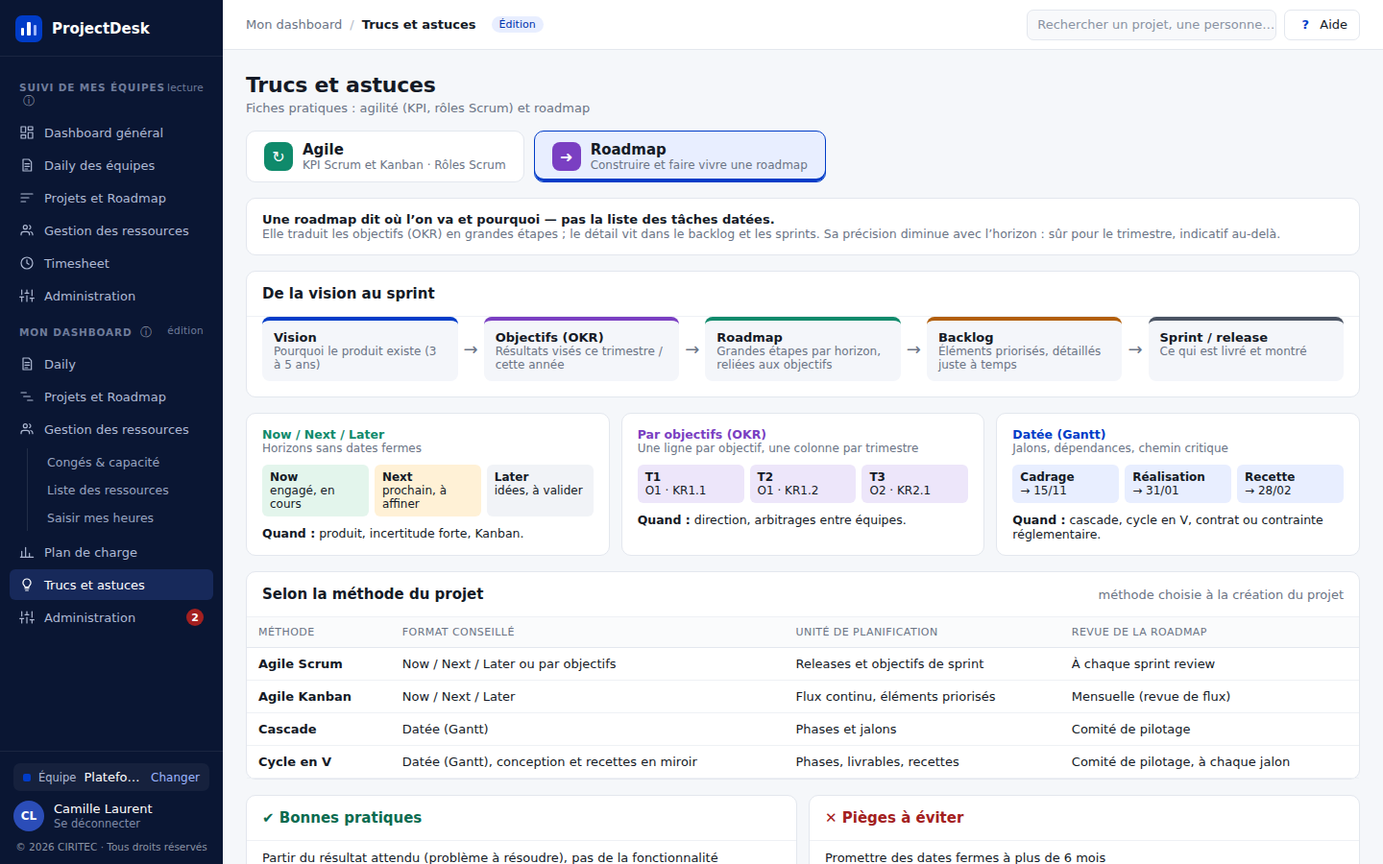
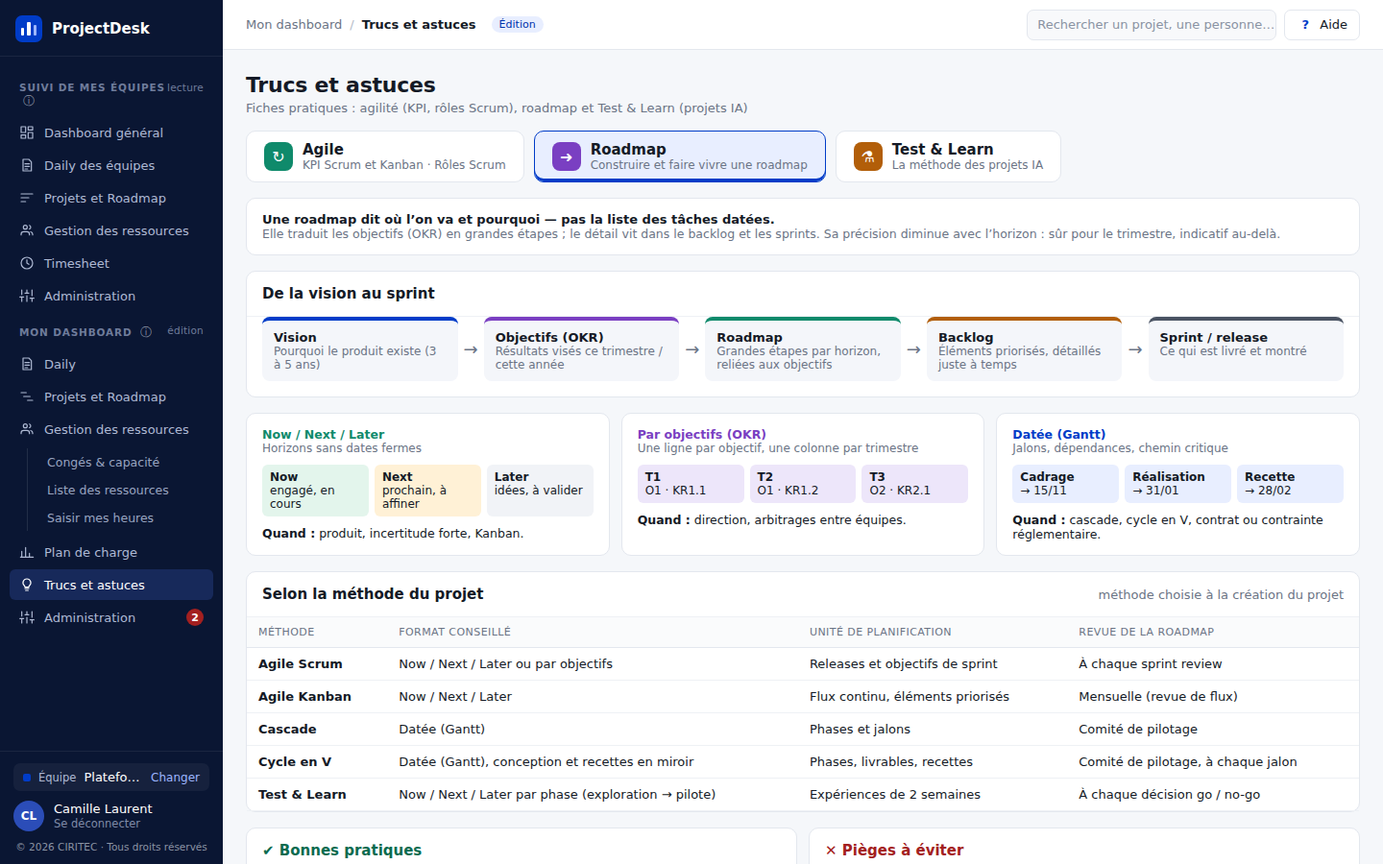
Trucs et astuces : fiche Test & Learn (projets IA) et méthode Test & Learn (migration 035 à appliquer) — DAT 2.15
Claude-Session: https://claude.ai/code/session_0187v8SY8uiT6dnWqjjqJYb6

diff --git a/app/js/config.js b/app/js/config.js
@@ -133,13 +133,14 @@ const REPARTITION_SPRINT = [
 /* Méthodes de gestion de projet (référentiel « methode », migration 022 ; demande du porteur 2026-10-08) :
    choisies à la création du projet ; des menus dépendront de la méthode (gestion multi-projet).
    Libellés système (renommables en Administration › Référentiels, retrouvés par leur clé). */
-const METHODES_PROJET = { SCRUM: 'Agile Scrum', KANBAN: 'Agile Kanban', CASCADE: 'Cascade', CYCLE_V: 'Cycle en V' };
+const METHODES_PROJET = { SCRUM: 'Agile Scrum', KANBAN: 'Agile Kanban', CASCADE: 'Cascade', CYCLE_V: 'Cycle en V', TEST_LEARN: 'Test & Learn' };
 // Description affichée sous chaque méthode dans le formulaire de création (clé technique → texte)
 const DESCRIPTIONS_METHODES = {
   scrum: 'Sprints de 2 semaines, backlog priorisé, vélocité.',
   kanban: 'Flux continu, limites de travail en cours, lead time.',
   cascade: 'Phases successives : besoin, conception, réalisation, recette.',
-  cycle_v: 'Cascade avec une phase de test en miroir de chaque phase de conception.'
+  cycle_v: 'Cascade avec une phase de test en miroir de chaque phase de conception.',
+  test_learn: 'Projets IA : expériences courtes, hypothèse et critère de succès fixés avant, puis décision.'
 };
 const LIBELLES_SYSTEME = { stp: STATUTS_PROJET, role: ROLES_PROJET, abs: ABSENCES, methode: METHODES_PROJET };
 
@@ -415,7 +416,8 @@ const ROADMAP_ASTUCES = {
     ['Agile Scrum', 'Now / Next / Later ou par objectifs', 'Releases et objectifs de sprint', 'À chaque sprint review'],
     ['Agile Kanban', 'Now / Next / Later', 'Flux continu, éléments priorisés', 'Mensuelle (revue de flux)'],
     ['Cascade', 'Datée (Gantt)', 'Phases et jalons', 'Comité de pilotage'],
-    ['Cycle en V', 'Datée (Gantt), conception et recettes en miroir', 'Phases, livrables, recettes', 'Comité de pilotage, à chaque jalon']],
+    ['Cycle en V', 'Datée (Gantt), conception et recettes en miroir', 'Phases, livrables, recettes', 'Comité de pilotage, à chaque jalon'],
+    ['Test & Learn', 'Now / Next / Later par phase (exploration → pilote)', 'Expériences de 2 semaines', 'À chaque décision go / no-go']],
   bonnesPratiques: [
     'Partir du résultat attendu (problème à résoudre), pas de la fonctionnalité',
     'Relier chaque étape à un objectif / résultat clé',
@@ -430,4 +432,69 @@ const ROADMAP_ASTUCES = {
     'Tout en priorité 1',
     'Oublier les dépendances entre équipes',
     'Ajouter sans retirer : la capacité n’est pas extensible']
+};
+
+/* ============================================================
+   Trucs et astuces › Test & Learn (demande du porteur 2026-10-15 : méthode utilisée pour les projets IA)
+   Fiche pratique en lecture seule : boucle hypothèse → décision, carte d'expérience, phases d'un
+   projet IA avec critères de passage, indicateurs propres à l'IA, rituels, bonnes pratiques et pièges.
+   Sources : démarche « Build-Measure-Learn » (Lean Startup, E. Ries), pratiques usuelles
+   d'évaluation des systèmes d'IA générative (jeu d'évaluation de référence, évaluation humaine).
+   Exemples tirés des projets IA de l'équipe (Chatbot CDO, Vie de Ville).
+   ============================================================ */
+const TEST_AND_LEARN = {
+  definition: 'Test & Learn : avancer par petites expériences mesurées plutôt que par un grand plan figé.',
+  precision: 'Adapté aux projets IA, où l’on ne sait pas à l’avance si le modèle sera assez fiable : chaque ' +
+    'expérience teste une hypothèse en peu de temps, avec un critère de succès fixé AVANT, puis on décide.',
+  // Boucle : [étape, explication, couleur]
+  boucle: [
+    ['Hypothèse', '« Nous croyons que… pour… mesuré par… »', '#003CC8'],
+    ['Expérience', 'Le plus petit test qui répond (POC, prototype, pilote)', '#7A3FC2'],
+    ['Mesure', 'Jeu d’évaluation, retours utilisateurs, coûts', '#0F8A6B'],
+    ['Apprentissage', 'Ce qui marche, ce qui ne marche pas, pourquoi', '#B25E09'],
+    ['Décision', 'Persévérer, pivoter ou arrêter', '#D14343']],
+  // Carte d'expérience : [rubrique, à remplir, exemple]
+  carte: [
+    ['Hypothèse', 'Ce que l’on croit et pour qui', 'Le chatbot CDO répond seul à 70 % des questions des commerciaux sur les lots'],
+    ['Expérience', 'Le test minimal, son périmètre', '50 vraies questions posées au chatbot par 3 commerciaux'],
+    ['Mesure', 'L’indicateur et comment on le relève', 'Taux de bonnes réponses, noté par le PO fonctionnel'],
+    ['Critère de succès', 'Fixé avant le test', '≥ 70 % de bonnes réponses, 0 réponse dangereuse'],
+    ['Durée', 'Boîte de temps courte', '2 semaines'],
+    ['Résultat', 'Chiffres obtenus', '62 % de bonnes réponses ; erreurs sur les prix grille'],
+    ['Décision', 'Persévérer / pivoter / arrêter, et la suite', 'Pivoter : ajouter la grille des prix à la base de connaissance, retester']],
+  // Phases d'un projet IA : [phase, objectif, durée indicative, critère de passage (go / no-go)]
+  phases: [
+    ['1. Exploration', 'Vérifier que le cas d’usage a de la valeur et que les données existent', '1 à 2 semaines', 'Données accessibles, sponsor et utilisateurs identifiés'],
+    ['2. Preuve de concept (POC)', 'Montrer que l’IA sait faire sur un petit jeu de test', '2 à 4 semaines', 'Critère de qualité atteint sur le jeu d’évaluation'],
+    ['3. Pilote', 'Tester avec de vrais utilisateurs, en conditions réelles', '4 à 8 semaines', 'Adoption, satisfaction, coût par requête acceptable'],
+    ['4. Industrialisation', 'Mettre en production : sécurité, supervision, support', 'selon le périmètre', 'Validation sécurité / RGPD, exploitation prête'],
+    ['5. Amélioration continue', 'Suivre la qualité et itérer (prompts, données, modèle)', 'en continu', 'Indicateurs stables ou en hausse']],
+  // Ce que l'on mesure sur un projet IA : [indicateur, définition, exemple]
+  indicateurs: [
+    ['Taux de bonnes réponses', 'Réponses justes ÷ réponses évaluées, sur un jeu de référence', '31 / 50 = 62 %'],
+    ['Hallucinations', 'Réponses inventées ou fausses présentées comme vraies', '3 sur 50 questions'],
+    ['Couverture', 'Questions auxquelles l’IA sait répondre ÷ questions posées', '80 %'],
+    ['Satisfaction', 'Note ou pouce levé des utilisateurs', '4,1 / 5'],
+    ['Coût par requête', 'Coût du modèle et de l’infrastructure ÷ nombre de requêtes', '0,02 € / question'],
+    ['Temps de réponse', 'Délai moyen entre la question et la réponse', '3,5 s'],
+    ['Adoption', 'Utilisateurs actifs ÷ utilisateurs visés', '18 / 40 commerciaux']],
+  rituels: [
+    'Revue d’expérience chaque semaine : résultats, décision, prochaine hypothèse',
+    'Journal des apprentissages partagé (ce qui a été testé, chiffres, décision)',
+    'Démo courte aux utilisateurs à la fin de chaque expérience',
+    'Point go / no-go avec le sponsor à la fin de chaque phase'],
+  bonnesPratiques: [
+    'Écrire l’hypothèse et le critère de succès avant de tester',
+    'Constituer tôt un jeu d’évaluation (questions et réponses attendues)',
+    'Tester avec de vraies données et de vrais utilisateurs dès que possible',
+    'Versionner prompts, données et modèle pour comparer les essais',
+    'Vérifier sécurité, RGPD et règles de données (DLP) dès l’exploration',
+    'Garder des expériences courtes : 2 semaines maximum'],
+  pieges: [
+    'Tester sans critère de succès, puis « trouver » que c’est réussi',
+    'Juger la qualité sur quelques exemples choisis',
+    'Industrialiser un POC sans pilote utilisateur',
+    'Ignorer le coût par requête jusqu’à la mise en production',
+    'Ne jamais arrêter une piste qui ne donne pas de résultat',
+    'Oublier de noter ce qui a échoué (et pourquoi)']
 };

diff --git a/app/js/ecrans/astuces.js b/app/js/ecrans/astuces.js
@@ -10,6 +10,8 @@
      QUI_FAIT_QUOI_SCRUM, config.js ; maquette docs/maquettes/organigramme-scrum/).
    Roadmap — fiche pratique : vision → sprint, formats, méthode du projet, bonnes pratiques
    (textes : ROADMAP_ASTUCES, config.js).
+   Test & Learn — méthode des projets IA (2026-10-15) : boucle hypothèse → décision, carte
+   d'expérience, phases et critères de passage, indicateurs IA (textes : TEST_AND_LEARN, config.js).
    Lecture seule : aucune donnée n'est modifiée sur cet écran.
    ============================================================ */
 'use strict';
@@ -21,7 +23,8 @@ Ecrans.astuces = {
   // Thèmes (gros boutons du haut) : clé, libellé, ce qu'il contient, couleur et symbole de l'icône
   THEMES: [
     { cle: 'agile', libelle: 'Agile', detail: 'KPI Scrum et Kanban · Rôles Scrum', couleur: COULEURS.succes, symbole: '↻' },
-    { cle: 'roadmap', libelle: 'Roadmap', detail: 'Construire et faire vivre une roadmap', couleur: COULEURS.violet, symbole: '➜' }
+    { cle: 'roadmap', libelle: 'Roadmap', detail: 'Construire et faire vivre une roadmap', couleur: COULEURS.violet, symbole: '➜' },
+    { cle: 'testLearn', libelle: 'Test & Learn', detail: 'La méthode des projets IA', couleur: COULEURS.orange, symbole: '⚗' }
   ],
 
   rendre() {
@@ -33,23 +36,20 @@ Ecrans.astuces = {
       ${onglet === 'roles' ? this.organigramme() : this.contenu()}`;
     return `
     <div class="ecran ecran-large">
-      ${C.entete('Trucs et astuces', 'Fiches pratiques : agilité (KPI, rôles Scrum) et roadmap')}
+      ${C.entete('Trucs et astuces', 'Fiches pratiques : agilité (KPI, rôles Scrum), roadmap et Test & Learn (projets IA)')}
       <div class="themes">${themes}</div>
-      ${theme === 'roadmap' ? this.roadmap() : agile}
+      ${{ roadmap: () => this.roadmap(), testLearn: () => this.testLearn() }[theme]?.() || agile}
     </div>`;
   },
 
   /* ---------- Roadmap : fiche pratique (textes ROADMAP_ASTUCES, config.js) ---------- */
   roadmap() {
     const esc = C.esc, R = ROADMAP_ASTUCES;
-    const chaine = R.chaine.map(([etape, detail, couleur]) => `<div class="chaine-etape" style="border-top-color:${couleur}">
-      <b>${esc(etape)}</b><div class="discret">${esc(detail)}</div></div>`).join('<div class="chaine-fleche">→</div>');
+    const chaine = this.chaine(R.chaine);
     const formats = R.formats.map(f => `<div class="carte"><b style="color:${f.couleur}">${esc(f.titre)}</b><div class="discret">${esc(f.sousTitre)}</div>
       <div class="format-exemples">${f.exemples.map(([titre, detail], i) => `<div style="background:${f.fond[i]}"><b>${esc(titre)}</b><br>${esc(detail)}</div>`).join('')}</div>
       <div><b>Quand :</b> ${esc(f.quand)}</div></div>`).join('');
     const methodes = R.methodes.map(([methode, ...colonnes]) => `<tr><td><b>${esc(methode)}</b></td>${colonnes.map(c => `<td>${esc(c)}</td>`).join('')}</tr>`).join('');
-    const liste = (titre, couleur, lignes) => `<div class="carte"><div class="carte-titre"><h2 style="color:${couleur}">${titre}</h2></div>
-      <ul class="liste-conseils">${lignes.map(l => `<li>${esc(l)}</li>`).join('')}</ul></div>`;
     return `<div class="carte encart-moyen"><b>${esc(R.definition)}</b><div class="discret texte-12-5">${esc(R.precision)}</div></div>
       <div class="carte"><div class="carte-titre"><h2>De la vision au sprint</h2></div><div class="chaine">${chaine}</div></div>
       <div class="grille-formats">${formats}</div>
@@ -57,10 +57,46 @@ Ecrans.astuces = {
         <div class="defilement-x"><table class="tableau"><thead><tr><th>Méthode</th><th>Format conseillé</th><th>Unité de planification</th>
           <th>Revue de la roadmap</th></tr></thead>
         <tbody>${methodes}</tbody></table></div></div>
-      <div class="grille-conseils">${liste('✔ Bonnes pratiques', TONS.succes.texte, R.bonnesPratiques)}${liste('✕ Pièges à éviter', 'var(--danger)', R.pieges)}</div>
+      <div class="grille-conseils">${this.listeConseils('✔ Bonnes pratiques', TONS.succes.texte, R.bonnesPratiques)}
+        ${this.listeConseils('✕ Pièges à éviter', 'var(--danger)', R.pieges)}</div>
       <div class="carte encart-compact"><b>Dans ${esc(CONFIG.NOM_APPLICATION)}</b> : la roadmap se construit dans <b>Projets et Roadmap</b> (Gantt),
         la méthode du projet se choisit à sa création, la capacité se vérifie dans <b>Plan de charge</b> et les objectifs se suivent
         dans le <b>Dashboard général</b> (OKR).</div>`;
+  },
+
+  // Étapes reliées par des flèches : [[étape, explication, couleur], …] (fiches Roadmap et Test & Learn)
+  chaine(etapes) {
+    return etapes.map(([etape, detail, couleur]) => `<div class="chaine-etape" style="border-top-color:${couleur}">
+      <b>${C.esc(etape)}</b><div class="discret">${C.esc(detail)}</div></div>`).join('<div class="chaine-fleche">→</div>');
+  },
+  // Carte de conseils : titre coloré et liste à puces (bonnes pratiques, pièges, rituels)
+  listeConseils(titre, couleur, lignes) {
+    return `<div class="carte"><div class="carte-titre"><h2 style="color:${couleur}">${titre}</h2></div>
+      <ul class="liste-conseils">${lignes.map(l => `<li>${C.esc(l)}</li>`).join('')}</ul></div>`;
+  },
+
+  /* ---------- Test & Learn : méthode des projets IA (textes TEST_AND_LEARN, config.js) ----------
+     Même mise en page que la fiche Roadmap : encart de définition, chaîne (boucle), tableaux, conseils. */
+  testLearn() {
+    const esc = C.esc, T = TEST_AND_LEARN;
+    const boucle = this.chaine(T.boucle);
+    const tableau = (entetes, lignes) => `<div class="defilement-x"><table class="tableau"><thead><tr>${entetes.map(e => `<th>${e}</th>`).join('')}</tr></thead>
+      <tbody>${lignes.map(([premiere, ...autres]) => `<tr><td><b>${esc(premiere)}</b></td>${autres.map(c => `<td>${esc(c)}</td>`).join('')}</tr>`).join('')}</tbody></table></div>`;
+    return `<div class="carte encart-moyen"><b>${esc(T.definition)}</b><div class="discret texte-12-5">${esc(T.precision)}</div></div>
+      <div class="carte"><div class="carte-titre"><h2>La boucle Test & Learn</h2><span class="discret">on recommence avec l’hypothèse suivante ↺</span></div>
+        <div class="chaine">${boucle}</div></div>
+      <div class="carte"><div class="carte-titre"><h2>Carte d’expérience</h2><span class="discret">à remplir pour chaque test · exemple : Chatbot CDO</span></div>
+        ${tableau(['Rubrique', 'À remplir', 'Exemple'], T.carte)}</div>
+      <div class="carte"><div class="carte-titre"><h2>Les phases d’un projet IA</h2><span class="discret">on ne passe à la suivante que si le critère est atteint</span></div>
+        ${tableau(['Phase', 'Objectif', 'Durée indicative', 'Critère de passage (go / no-go)'], T.phases)}</div>
+      <div class="carte"><div class="carte-titre"><h2>Ce que l’on mesure sur un projet IA</h2></div>
+        ${tableau(['Indicateur', 'Définition', 'Exemple'], T.indicateurs)}</div>
+      <div class="grille-conseils">${this.listeConseils('↻ Rituels', 'var(--primaire)', T.rituels)}
+        ${this.listeConseils('✔ Bonnes pratiques', TONS.succes.texte, T.bonnesPratiques)}</div>
+      <div class="grille-conseils">${this.listeConseils('✕ Pièges à éviter', 'var(--danger)', T.pieges)}
+        <div class="carte encart-compact"><b>Dans ${esc(CONFIG.NOM_APPLICATION)}</b> : notez chaque expérience et sa décision dans le <b>Daily</b>
+          du projet IA (les blocages remontent dans Daily des équipes), planifiez les phases dans <b>Projets et Roadmap</b>
+          (format Now / Next / Later) et réservez la boîte de temps dans <b>Plan de charge</b>.</div></div>`;
   },
 
   /* ---------- Rôles Scrum : organigramme détaillé ----------

diff --git a/app/index.html b/app/index.html
@@ -11,7 +11,7 @@
 <link href="https://fonts.googleapis.com/css2?family=IBM+Plex+Sans:wght@400;500;600;700&family=IBM+Plex+Mono:wght@400;500&display=swap" rel="stylesheet">
 <!-- ?v= : version des fichiers (= version du DAT), à changer à chaque livraison : force le navigateur
      à recharger le code au lieu de réutiliser une ancienne copie en mémoire. -->
-<link rel="stylesheet" href="css/theme.css?v=2.14">
+<link rel="stylesheet" href="css/theme.css?v=2.15">
 </head>
 <body>
   <!-- Toute l'interface est dessinée dans #app par js/coquille.js et js/ecrans/*.js -->
@@ -19,33 +19,33 @@
   <div id="notification" class="notification" role="status"></div>
 
   <!-- Ordre de chargement : configuration, outils, état, puis écrans (qui s'enregistrent dans Ecrans) -->
-  <script src="js/config.js?v=2.14"></script>
-  <script src="js/api.js?v=2.14"></script>
-  <script src="js/calculs.js?v=2.14"></script>
-  <script src="js/etat.js?v=2.14"></script>
-  <script src="js/composants.js?v=2.14"></script>
-  <script src="js/coquille.js?v=2.14"></script>
-  <script src="js/panneau-projet.js?v=2.14"></script>
-  <script src="js/modale.js?v=2.14"></script>
-  <script src="js/excel.js?v=2.14"></script>
-  <script src="js/roles.js?v=2.14"></script>
-  <script src="js/simulation.js?v=2.14"></script>
-  <script src="js/ecrans/connexion.js?v=2.14"></script>
-  <script src="js/ecrans/choix-equipe.js?v=2.14"></script>
-  <script src="js/ecrans/dashboard.js?v=2.14"></script>
-  <script src="js/ecrans/projets.js?v=2.14"></script>
-  <script src="js/ecrans/ressources.js?v=2.14"></script>
-  <script src="js/ecrans/administration.js?v=2.14"></script>
-  <script src="js/ecrans/timesheet.js?v=2.14"></script>
-  <script src="js/ecrans/daily-equipes.js?v=2.14"></script>
-  <script src="js/ecrans/daily.js?v=2.14"></script>
-  <script src="js/ecrans/mes-projets.js?v=2.14"></script>
-  <script src="js/ecrans/conges.js?v=2.14"></script>
-  <script src="js/ecrans/capacite.js?v=2.14"></script>
-  <script src="js/ecrans/liste-ressources.js?v=2.14"></script>
-  <script src="js/ecrans/mon-timesheet.js?v=2.14"></script>
-  <script src="js/ecrans/previsionnel.js?v=2.14"></script>
-  <script src="js/ecrans/mon-admin.js?v=2.14"></script>
-  <script src="js/ecrans/astuces.js?v=2.14"></script>
+  <script src="js/config.js?v=2.15"></script>
+  <script src="js/api.js?v=2.15"></script>
+  <script src="js/calculs.js?v=2.15"></script>
+  <script src="js/etat.js?v=2.15"></script>
+  <script src="js/composants.js?v=2.15"></script>
+  <script src="js/coquille.js?v=2.15"></script>
+  <script src="js/panneau-projet.js?v=2.15"></script>
+  <script src="js/modale.js?v=2.15"></script>
+  <script src="js/excel.js?v=2.15"></script>
+  <script src="js/roles.js?v=2.15"></script>
+  <script src="js/simulation.js?v=2.15"></script>
+  <script src="js/ecrans/connexion.js?v=2.15"></script>
+  <script src="js/ecrans/choix-equipe.js?v=2.15"></script>
+  <script src="js/ecrans/dashboard.js?v=2.15"></script>
+  <script src="js/ecrans/projets.js?v=2.15"></script>
+  <script src="js/ecrans/ressources.js?v=2.15"></script>
+  <script src="js/ecrans/administration.js?v=2.15"></script>
+  <script src="js/ecrans/timesheet.js?v=2.15"></script>
+  <script src="js/ecrans/daily-equipes.js?v=2.15"></script>
+  <script src="js/ecrans/daily.js?v=2.15"></script>
+  <script src="js/ecrans/mes-projets.js?v=2.15"></script>
+  <script src="js/ecrans/conges.js?v=2.15"></script>
+  <script src="js/ecrans/capacite.js?v=2.15"></script>
+  <script src="js/ecrans/liste-ressources.js?v=2.15"></script>
+  <script src="js/ecrans/mon-timesheet.js?v=2.15"></script>
+  <script src="js/ecrans/previsionnel.js?v=2.15"></script>
+  <script src="js/ecrans/mon-admin.js?v=2.15"></script>
+  <script src="js/ecrans/astuces.js?v=2.15"></script>
 </body>
 </html>

diff --git a/tests/parcours.js b/tests/parcours.js
@@ -176,6 +176,11 @@ const verifier = (nom, condition, detail = '') => { resultats.push({ nom, ok: !!
       && ['Agile Scrum', 'Agile Kanban', 'Cascade', 'Cycle en V'].every(m => document.querySelector('.ecran').textContent.includes(m))
       && !document.querySelector('.tableau-kpi')));
     await capture('19b-astuces-roadmap');
+    // Test & Learn (2026-10-15) : méthode des projets IA — boucle, carte d'expérience, phases, indicateurs
+    await page.click('[data-action="themeAstuces"][data-theme="testLearn"]'); await page.waitForTimeout(200);
+    verifier('Trucs et astuces › Test & Learn : boucle, carte d’expérience, phases IA et indicateurs', await page.evaluate(() =>
+      ['La boucle Test & Learn', 'Carte d’expérience', 'Les phases d’un projet IA', 'Hallucinations', 'Pièges à éviter'].every(t => document.body.textContent.includes(t))));
+    await capture('19c-astuces-test-learn');
     await page.click('[data-action="themeAstuces"][data-theme="agile"]'); await page.waitForTimeout(150);
     // Menu : Saisir mes heures rangé dans Gestion des ressources (sans intertitre), plus d'entrée à part
     verifier('Menu : Saisir mes heures dans Gestion des ressources (sans intertitre), section « Suivi de mes équipes » renommée', await page.evaluate(() => {
@@ -299,7 +304,8 @@ const verifier = (nom, condition, detail = '') => { resultats.push({ nom, ok: !!
     verifier('Nouveau projet : ni résultat clé, ni dates, ni statut', !(await page.$('form[data-action-envoi="creerProjet"] [name=resultatCleId], form[data-action-envoi="creerProjet"] [name=debut], form[data-action-envoi="creerProjet"] [name=fin], form[data-action-envoi="creerProjet"] [name=statut]')));
     // Méthode obligatoire (migration 022) : sans choix, le formulaire ne part pas
     await page.click('form[data-action-envoi="creerProjet"] .btn.primaire'); await page.waitForTimeout(200);
-    verifier('Nouveau projet : méthode obligatoire (4 choix)', await page.$$eval('input[name=methode]', l => l.length) === 4 && !!(await page.$('form[data-action-envoi="creerProjet"]')));
+    verifier('Nouveau projet : méthode obligatoire (5 choix, dont Test & Learn)', await page.$$eval('input[name=methode]', l => l.length) === 5
+      && !!(await page.$('input[name=methode][value="Test & Learn"]')) && !!(await page.$('form[data-action-envoi="creerProjet"]')));
     await page.check('input[name=methode][value="Agile Kanban"]');
     await page.click('form[data-action-envoi="creerProjet"] .btn.primaire'); await page.waitForTimeout(400);
     verifier('Nouveau projet créé et ouvert', (await page.inputValue('.panneau input[data-champ="nom"]')) === 'Projet de test');

diff --git a/tests/serveur-simule.js b/tests/serveur-simule.js
@@ -162,12 +162,12 @@ function amorcer() {
     poste: ['Chef de projet', 'Product manager', 'Product designer', 'Dév. back-end', 'Dév. front-end', 'DevOps', 'Lead data', 'Data engineer', 'Data analyst', 'Lead mobile', 'Dév. iOS', 'Dév. Android'].map(l => [l, '#4A5363']),
     contrat: [['CDI', '#0F8A6B'], ['CDD', '#003CC8'], ['Prestataire', '#B25E09'], ['Alternance', '#7A3FC2']],
     // Méthodes de gestion de projet (migration 022)
-    methode: [['Agile Scrum', '#003CC8', 1], ['Agile Kanban', '#0F8A6B', 1], ['Cascade', '#B25E09', 1], ['Cycle en V', '#7A3FC2', 1]] };
+    methode: [['Agile Scrum', '#003CC8', 1], ['Agile Kanban', '#0F8A6B', 1], ['Cascade', '#B25E09', 1], ['Cycle en V', '#7A3FC2', 1], ['Test & Learn', '#D98A1C', 1]] };
   bd.valeurs_referentiel = [];
   // Clés techniques des valeurs système (migration 007)
   const CLES_SYSTEME = { 'stp:Planifié': 'planifie', 'stp:En cours': 'en_cours', 'stp:À risque': 'a_risque', 'stp:En retard': 'en_retard', 'stp:Terminé': 'termine',
     'role:Chef de projet': 'chef', 'role:Membre': 'membre', 'role:Lecteur': 'lecteur', 'abs:Congés validé': 'cp', 'abs:Jours férié': 'ferie',
-    'methode:Agile Scrum': 'scrum', 'methode:Agile Kanban': 'kanban', 'methode:Cascade': 'cascade', 'methode:Cycle en V': 'cycle_v' };
+    'methode:Agile Scrum': 'scrum', 'methode:Agile Kanban': 'kanban', 'methode:Cascade': 'cascade', 'methode:Cycle en V': 'cycle_v', 'methode:Test & Learn': 'test_learn' };
   Object.entries(V).forEach(([ref, vals]) => vals.forEach(([libelle, couleur, systeme, abrege], i) =>
     bd.valeurs_referentiel.push({ id: uuid(), referentiel_id: ref, libelle, abrege: abrege || null, couleur, actif: true, systeme: !!systeme, ordre: i + 1,
       cle: systeme ? CLES_SYSTEME[ref + ':' + libelle] : null })));

diff --git a/docs/DAT.md b/docs/DAT.md
@@ -129,6 +129,7 @@
 | 2.12    | 2026-10-14 | **Import du CR Daily Excel** (`CR_Daily_final_2.xlsx`, porteur : « prends mon fichier Daily et intègre-le », choix : rattacher à la fiche, projet Digital, répartition IA selon le texte). 285 dailys du 26/05 au 14/10/2026 au format Hier / Aujourd'hui / Blocages (211 lignes vides ignorées) : Lenaic 90, Nouha 75, Christelle 115 (CDO 66, **Digital** 49), Cerine 5 ; lignes « - IA » réparties par mots-clés (chatbot, VDV / vie de ville, prixo, pdc). Projet **APP-03 Digital** créé (Applications, Christelle Chef de projet). **Migration 034** (instantané `sauvegarde-avant-034-import-daily`, la limite de branches étant atteinte ; empreinte des 285 textes identique au fichier) : daily d'une personne sans compte = auteur `fiche:<id>` ; déclencheur `ressources_transferer_daily` qui passe ces dailys sur son compte quand il est relié. Daily des équipes et export Excel : `auteurDaily` (`etat.js`). Limites : l'écran ne montre que les 90 derniers jours (export Excel pour juin-juillet) ; l'envoi par e-mail ne lit pas les dailys « fiche: » (§ 3, § 4) |
 | 2.13    | 2026-10-14 | **Daily des équipes à la semaine** (porteur : « affiche uniquement les daily de la semaine » ; maquette `daily-semaine/` validée) : semaine du jour choisi (lundi → vendredi ouvrés, hors fériés : `joursSemaine`), « Cette semaine » et ‹ › par semaine ; par projet un tableau membre × jour (note, ou motif : absent(e), « — », sans compte ; vide les jours à venir) ; « Blocages de la semaine » datés. Export Excel inchangé. Aucune donnée modifiée (§ 3.2) |
 | 2.14    | 2026-10-15 | **Daily des équipes : nouveau design** (porteur : maquettes `daily-equipes-design/` A, B, C proposées ; retenu « la 1 pour tout le monde, la 1 et la 3 pour le responsable d'équipe », maquettes `daily-equipes-design/retenu/` validées). Onglet **Fil des dailys** (tous) : dailys de la semaine groupés par jour, du plus récent au plus ancien, heure d'enregistrement, blocages en pastilles ; filtres projets / personnes avec compteurs ; à droite **Blocages ouverts** (dernier daily de chaque membre × projet, « depuis N j ») et résumé du jour (renseignés, absents, sans daily). Onglet **Synthèse de l'équipe** (responsables d'équipe et administrateurs : `voitSynthese`) : 4 indicateurs (taux de dailys renseignés, jours avec blocage, manquants, absences), carte membre × jour (✓ / ⚠ / — / 🌴), clic → panneau de lecture avec jour précédent / suivant. Aucune donnée modifiée (§ 3.2) |
+| 2.15    | 2026-10-15 | **Trucs et astuces › Test & Learn** (porteur : « un nouvel onglet sur la méthode test and learn qui sera utilisé pour les projets IA » ; maquette `astuces-test-learn/` validée) : troisième thème à côté d'Agile et Roadmap — définition, boucle Hypothèse → Expérience → Mesure → Apprentissage → Décision, carte d'expérience (exemple Chatbot CDO), phases d'un projet IA avec critères go / no-go, indicateurs IA (bonnes réponses, hallucinations, coût par requête…), rituels, bonnes pratiques et pièges (textes `TEST_AND_LEARN`, config.js). **Méthode « Test & Learn »** ajoutée aux méthodes de projet (`METHODES_PROJET`, `DESCRIPTIONS_METHODES`, ligne du tableau Roadmap) ; **migration 035** (valeur système `methode / test_learn`) **à appliquer** : la connexion Neon doit être ré-autorisée — tant qu'elle ne l'est pas, le choix n'apparaît pas à la création d'un projet (la liste vient de la base) (§ 3.3, § 4) |
 | 1.44    | 2026-09-27 | Calcul type Scrum : formule déplacée dans une pop-in (bouton « Comment est-ce calculé ? » en haut à droite), avec un exemple chiffré sur CDO (membres, jours ouvrés, absences, cérémonies, focus) (§ 2.1, § 3.3) |
 
 ---
@@ -249,7 +250,7 @@ Captures de l'application : `docs/maquettes/etat-actuel/` (générées par `test
 | `monTimesheet` | `mon-timesheet.js` | Sous-menu **Gestion des ressources › Saisir mes heures** (rangé sous Gestion des ressources depuis 1.79) — saisie **mensuelle** (maquette `saisie-mensuelle/`) : une ligne par projet où je suis affecté (Chef de projet ou Membre), une colonne par jour de semaine du mois ; JF (férié), Abs (absence d'une journée), — (hors présence) non saisissables, demi-journée saisissable ; totaux par projet, par jour et du mois / attendu ; « Soumettre le mois » | `13-mon-timesheet.png` |
 | `monAdmin` | `mon-admin.js` | **Rôles** (tous les administrateurs depuis 2.03, `roles.js`, maquettes `liste-roles/`, `affecter-roles/`, `tableau-roles/` et `roles-droits/`) : trois vues — **Matrice des droits** (13 droits × 6 rôles, Oui / Lecture / Non, depuis 2.08) ; tableau « Utilisateurs et rôles » (utilisateur, équipe, projets avec le rôle sur chacun, compte relié, poste, rôle) ; rôle d'accès de chaque personne (Administrateur, Responsable d'équipe, Membre de l'équipe) choisi dans une liste et enregistré aussitôt — rôle prévu si la personne n'est pas encore connectée ou n'a pas vérifié son email ; filtres équipe, rôle, recherche ; puis qui a quel rôle (cartes). **★ Simulation des rôles** (créateur seulement, `simulation.js`, maquette `simulation-roles/`, depuis 1.85) : voir l'application en tant qu'Administrateur, Responsable d'équipe, Chef de projet, Membre, Lecteur de projet ou Compte sans équipe, avec une personne réelle de ce rôle ; bandeau violet en haut de chaque écran (changer de rôle, revenir) ; lecture seule. **Comptes en attente** (administrateurs, maquette `comptes-en-attente/`, depuis 1.83) : inscrits sans équipe (`comptes_en_attente()`), choix de l'équipe, de la fiche ressource (fiche sans compte proposée si l'email ou le prénom correspond, ou « Créer sa fiche ») et du rôle (Membre / Admin d'équipe), « Donner l'accès » = email du compte posé sur la fiche (reliée à la connexion par `lier_ma_ressource`) + invitation dans l'équipe, « Ignorer » (`comptes_ignores`) ; pastille rouge sur le menu Administration. **Envoi du daily** (une ligne par **projet en cours**, depuis 1.73 ; réglable par administrateur, chef du projet ou responsable de son unité — mode, heure, jours, sauf fériés, destinataires ; « Configurer le flux » Power Automate, fenêtre `Modale.envoiPowerAutomate`) ; **Sprints** (sprints de chaque projet : Sprint n°, année, version, début, fin ; affichage par année) ; **Équipes** (créer / modifier, membres, invitations — administrateurs et responsables) ; **Référentiels** et **Jours fériés** (administrateurs : ajout, date, libellé, suppression, par année). Ouvert sans équipe pour un administrateur. (Demandes entrantes et formulaire de demande retirés le 2026-10-05 : gérés dans Azure DevOps.) | `14-mon-admin.png`, `26-comptes-en-attente.png`, `27b-roles.png`, `32-matrice-droits.png`, `28-simulation-roles.png`, `29-simulation-en-cours.png` |
 | `previsionnel` | `previsionnel.js` | **Plan de charge** (maquette `previsionnel-temps/`) — menu visible des **chefs de projet** (fiche « chef » ou affectation « Chef de projet ») et des administrateurs. Choix d'une personne affectée (hors Lecteur) à un projet que je pilote (moi par défaut). Onglet **Prévisionnel** : 12 mois (‹ › décale d'un mois), lignes jours ouvrés (hors fériés), congés (Congés & capacité), jours travaillés, disponibles si capacité < 100 %, puis par projet en cours de la personne : % du temps (`previsions_temps`) et ses types de tâche avec % cible (`types_tache_projet` : libellé modifiable, ajout, suppression), sous-total « Total hors US » si le projet a un type « US », contrôle Σ = 100 % ; unité jours ou heures (× `HEURES_PAR_JOUR`). Les % ne sont modifiables que sur les projets que je pilote (lecture sinon). Onglet **Temps réel par sprint** : sprints datés d'un projet de la personne (CDO par défaut), capacité du sprint (`Calculs.heuresAttenduesJours`), par projet heures prévues (capacité × %), heures saisies (Saisir mes heures), jours, % réel, écart en points, consommé / prévu | `23-previsionnel.png`, `24-previsionnel-reel.png` |
-| `astuces` | `astuces.js` | **Trucs et astuces** (menu à part de Mon dashboard depuis le 2026-10-05, auparavant onglet d'Administration). Deux boutons de thème (depuis 1.97, maquette `astuces-agile-roadmap/`) : **Agile** (onglets KPI Agile et Rôles Scrum) et **Roadmap** (fiche pratique en lecture seule : définition, chaîne vision → objectifs → roadmap → backlog → sprint, trois formats de roadmap, format conseillé selon la méthode du projet, bonnes pratiques et pièges ; textes `ROADMAP_ASTUCES`, `config.js`). Onglet KPI Agile : KPI Agile Scrum et Kanban de `KPI_AGILE`, avec un exemple chiffré par KPI calculé sur un projet choisi, CDO par défaut — « réel » si les données existent, sinon « illustratif » ; lecture seule. Onglet **Rôles Scrum (organigramme)** (maquette `organigramme-scrum/`) : organigramme détaillé — sponsor / direction métier et parties prenantes ; équipe Scrum avec Product Ownership partagé entre **PO fonctionnel** et **PO technique** (backlog unique co-priorisé) et Scrum Master transverse ; équipe de développement : **tech lead**, développeurs, **QA / testeurs**, UX/UI et DevOps si besoin ; chaque carte : mission, responsabilités, liens clés, cérémonies ; puis tableau « qui fait quoi » (● responsable, ○ contribue). Textes : `ROLES_SCRUM`, `FAMILLES_ROLES_SCRUM`, `QUI_FAIT_QUOI_SCRUM` (`config.js`) | `19-astuces.png`, `19b-astuces-roadmap.png`, `25-roles-scrum.png` |
+| `astuces` | `astuces.js` | **Trucs et astuces** (menu à part de Mon dashboard depuis le 2026-10-05, auparavant onglet d'Administration). Trois boutons de thème (depuis 1.97, maquette `astuces-agile-roadmap/` ; **Test & Learn** depuis 2.15, maquette `astuces-test-learn/` : méthode des projets IA — boucle, carte d'expérience, phases go / no-go, indicateurs IA, rituels, conseils ; textes `TEST_AND_LEARN`) : **Agile** (onglets KPI Agile et Rôles Scrum) et **Roadmap** (fiche pratique en lecture seule : définition, chaîne vision → objectifs → roadmap → backlog → sprint, trois formats de roadmap, format conseillé selon la méthode du projet, bonnes pratiques et pièges ; textes `ROADMAP_ASTUCES`, `config.js`). Onglet KPI Agile : KPI Agile Scrum et Kanban de `KPI_AGILE`, avec un exemple chiffré par KPI calculé sur un projet choisi, CDO par défaut — « réel » si les données existent, sinon « illustratif » ; lecture seule. Onglet **Rôles Scrum (organigramme)** (maquette `organigramme-scrum/`) : organigramme détaillé — sponsor / direction métier et parties prenantes ; équipe Scrum avec Product Ownership partagé entre **PO fonctionnel** et **PO technique** (backlog unique co-priorisé) et Scrum Master transverse ; équipe de développement : **tech lead**, développeurs, **QA / testeurs**, UX/UI et DevOps si besoin ; chaque carte : mission, responsabilités, liens clés, cérémonies ; puis tableau « qui fait quoi » (● responsable, ○ contribue). Textes : `ROLES_SCRUM`, `FAMILLES_ROLES_SCRUM`, `QUI_FAIT_QUOI_SCRUM` (`config.js`) | `19-astuces.png`, `19b-astuces-roadmap.png`, `19c-astuces-test-learn.png`, `25-roles-scrum.png` |
 
 ### 3.4 Éléments ajoutés par rapport à la maquette
 
@@ -268,7 +269,7 @@ validées : `docs/maquettes/pilotage-projet/complements/`) :
 - dans la fenêtre d'affectation, lien **« + Nouveau membre »** : crée la fiche dans l'équipe du
   projet puis revient à l'affectation, personne sélectionnée et projet coché.
 
-## 4. Modèle de données (migrations `002_pilotage_projet.sql`, `003_lecture_administrateurs.sql`, `004_daily_equipes.sql`, `005_directions_postes_contrats.sql`, `006_direction_espace_travail.sql`, `007_valeurs_systeme_renommables.sql`, `008_type_jour_ferie.sql`, `009_demi_journees.sql`, `010_tracer_modification_definer.sql`, `011_objectifs_jours_travail.sql`, `012_dates_presence.sql`, `013_saisies_capacite.sql`, `014_sprints_saisis.sql`, `015_numero_annee_sprints.sql`, `016_feuilles_temps_mensuelles.sql`, `017_envoi_daily.sql`, `018_daily_par_projet.sql`, `019_envoi_daily_projet.sql`, `020_nettoyage_tables.sql`, `021_previsionnel_temps.sql`, `022_methode_projet.sql`, `023_nettoyage_index.sql`, `024_comptes_en_attente.sql`, `025_role_createur.sql`, `026_accepter_invitations.sql`, `027_responsables_equipe.sql`, `028_responsables_et_chefs_unifies.sql`, `029_affecter_roles.sql`, `030_six_roles_acces.sql`, `031_matrice_droits.sql`, `032_administrateur_tous_projets.sql`, `033_membres_equipe.sql`, `034_daily_fiche_sans_compte.sql`)
+## 4. Modèle de données (migrations `002_pilotage_projet.sql`, `003_lecture_administrateurs.sql`, `004_daily_equipes.sql`, `005_directions_postes_contrats.sql`, `006_direction_espace_travail.sql`, `007_valeurs_systeme_renommables.sql`, `008_type_jour_ferie.sql`, `009_demi_journees.sql`, `010_tracer_modification_definer.sql`, `011_objectifs_jours_travail.sql`, `012_dates_presence.sql`, `013_saisies_capacite.sql`, `014_sprints_saisis.sql`, `015_numero_annee_sprints.sql`, `016_feuilles_temps_mensuelles.sql`, `017_envoi_daily.sql`, `018_daily_par_projet.sql`, `019_envoi_daily_projet.sql`, `020_nettoyage_tables.sql`, `021_previsionnel_temps.sql`, `022_methode_projet.sql`, `023_nettoyage_index.sql`, `024_comptes_en_attente.sql`, `025_role_createur.sql`, `026_accepter_invitations.sql`, `027_responsables_equipe.sql`, `028_responsables_et_chefs_unifies.sql`, `029_affecter_roles.sql`, `030_six_roles_acces.sql`, `031_matrice_droits.sql`, `032_administrateur_tous_projets.sql`, `033_membres_equipe.sql`, `034_daily_fiche_sans_compte.sql`, `035_methode_test_learn.sql` — à appliquer)
 
 Colonnes en snake_case ; l'application les manipule en camelCase (conversion dans `api.js`).
 Toutes les tables métier ont `modifie_par` / `modifie_le` (trigger `tracer_modification()`).
@@ -481,7 +482,7 @@ refusée sur `referentiels` et `administrateurs` (usurpation).
 | Outil | Contenu |
 |-------|---------|
 | `tests/serveur-simule.js` | Neon Auth (dont Google simulé) + Data API simulés en mémoire, identifiants numérotés (et non aléatoires) pour des captures reproductibles, données de la maquette (comptes `camille@test.fr` administratrice/owner, `thomas@test.fr` membre, `elodie@test.fr` demandeuse, `admin@test.fr` administratrice sans équipe ; mot de passe `motdepasse`) |
-| `tests/parcours.js` | Parcours Playwright de bout en bout (129 contrôles, dont « Suivi de mes équipes en lecture seule », l'aller-retour Google simulé, le parcours administrateur sans équipe, le daily des équipes, l'export Excel du daily, le plan de charge et le board des ressources) + captures `docs/maquettes/etat-actuel/` |
+| `tests/parcours.js` | Parcours Playwright de bout en bout (130 contrôles, dont « Suivi de mes équipes en lecture seule », l'aller-retour Google simulé, le parcours administrateur sans équipe, le daily des équipes, l'export Excel du daily, le plan de charge et le board des ressources) + captures `docs/maquettes/etat-actuel/` |
 | `scripts/verifier-docs.js` | Cohérence documentation ↔ code après chaque commit (§ 11) |
 
 Les règles RLS ne sont pas simulées : elles sont vérifiées en base et lors de la recette réelle.
